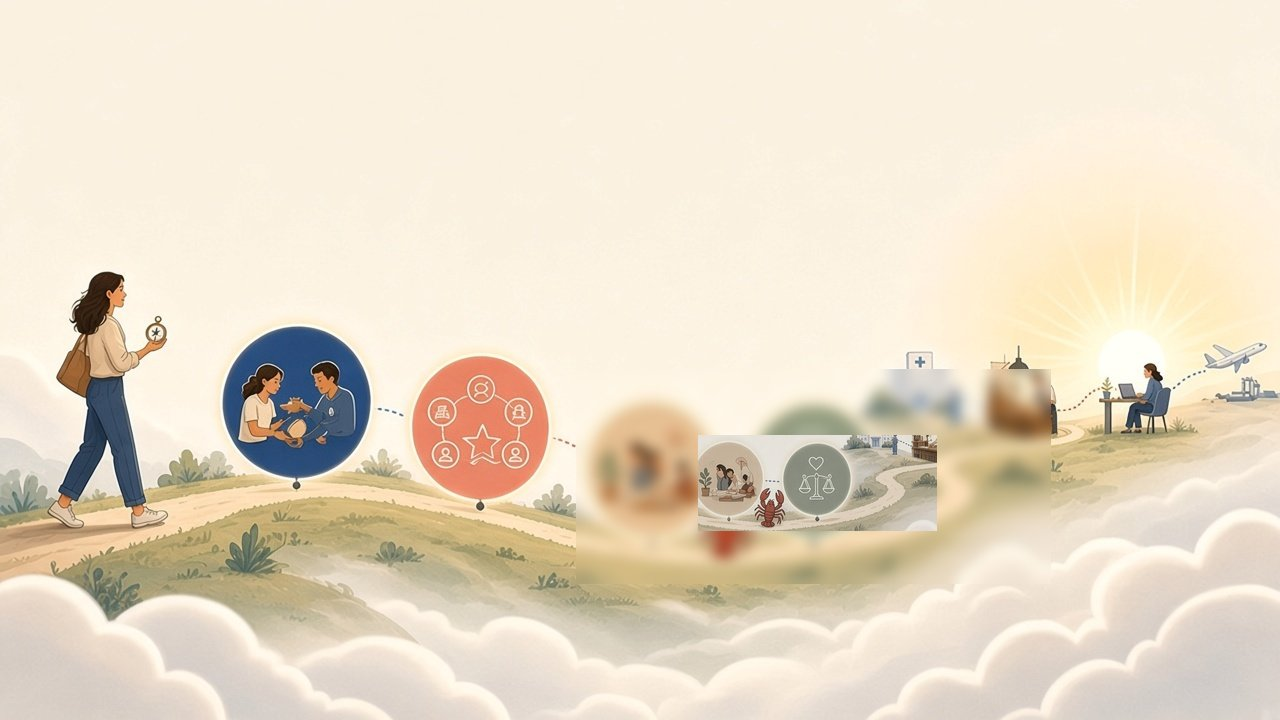
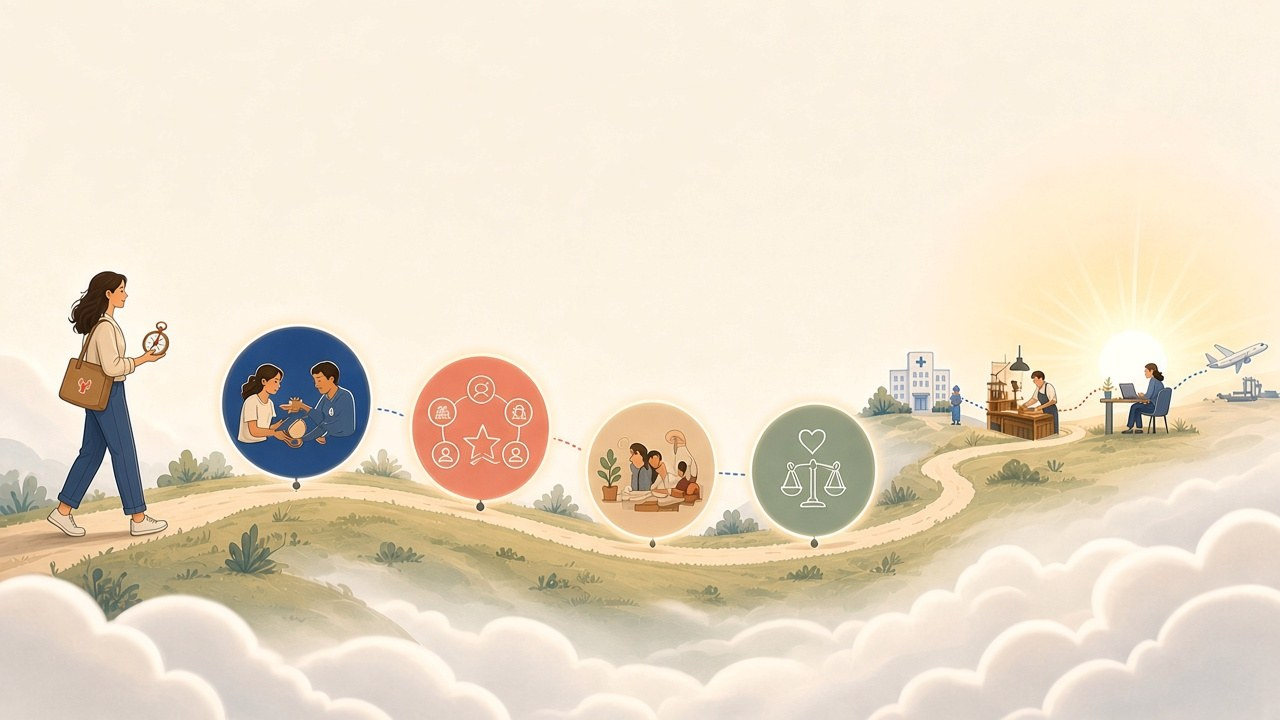
Swap approved Wie ben jij journey art; show hero full bleed.
Replace illustration with Dennis-approved asset (lobster on tote, plain compass). Drop card crop/shadow so the image stays large and fully visible on all breakpoints.

diff --git a/Jobsy.Web/wwwroot/css/features/onboarding-wizard-test-journey.css b/Jobsy.Web/wwwroot/css/features/onboarding-wizard-test-journey.css
@@ -21,29 +21,30 @@
 
 .ob-journey__hero {
   position: relative;
-  border-radius: var(--radius);
-  overflow: hidden;
-  background: color-mix(in srgb, var(--border) 40%, var(--surface));
-  box-shadow: var(--shadow);
+  overflow: visible;
+  margin-inline: -4px;
+  background: transparent;
 }
 
 .ob-journey__art {
   display: block;
   inline-size: 100%;
   block-size: auto;
+  max-inline-size: 100%;
   vertical-align: middle;
+  border-radius: 0;
 }
 
 .ob-journey__promise {
   position: absolute;
   inset-inline: 0;
   inset-block-start: 0;
-  padding: 16px 18px 24px;
+  padding: 12px 14px 20px;
   background: linear-gradient(
     180deg,
-    color-mix(in srgb, var(--bg) 92%, transparent) 0%,
-    color-mix(in srgb, var(--bg) 55%, transparent) 55%,
-    transparent 100%
+    color-mix(in srgb, var(--bg) 78%, transparent) 0%,
+    color-mix(in srgb, var(--bg) 35%, transparent) 45%,
+    transparent 85%
   );
   pointer-events: none;
 }
@@ -263,22 +264,27 @@
 
 @media (max-width: 639px) {
   .ob-journey__hero {
-    max-block-size: 210px;
+    margin-inline: 0;
   }
 
   .ob-journey__art {
     inline-size: 100%;
-    block-size: 100%;
-    min-block-size: 210px;
-    object-fit: cover;
-    object-position: center 38%;
+    block-size: auto;
+    object-fit: unset;
+    object-position: unset;
   }
 
   .ob-journey__promise {
-    position: static;
-    padding: 12px 14px 0;
-    background: none;
-    pointer-events: auto;
+    position: absolute;
+    inset-inline: 0;
+    inset-block-start: 0;
+    padding: 10px 12px 16px;
+    background: linear-gradient(
+      180deg,
+      color-mix(in srgb, var(--bg) 85%, transparent) 0%,
+      transparent 70%
+    );
+    pointer-events: none;
   }
 
   .ob-journey__title {
